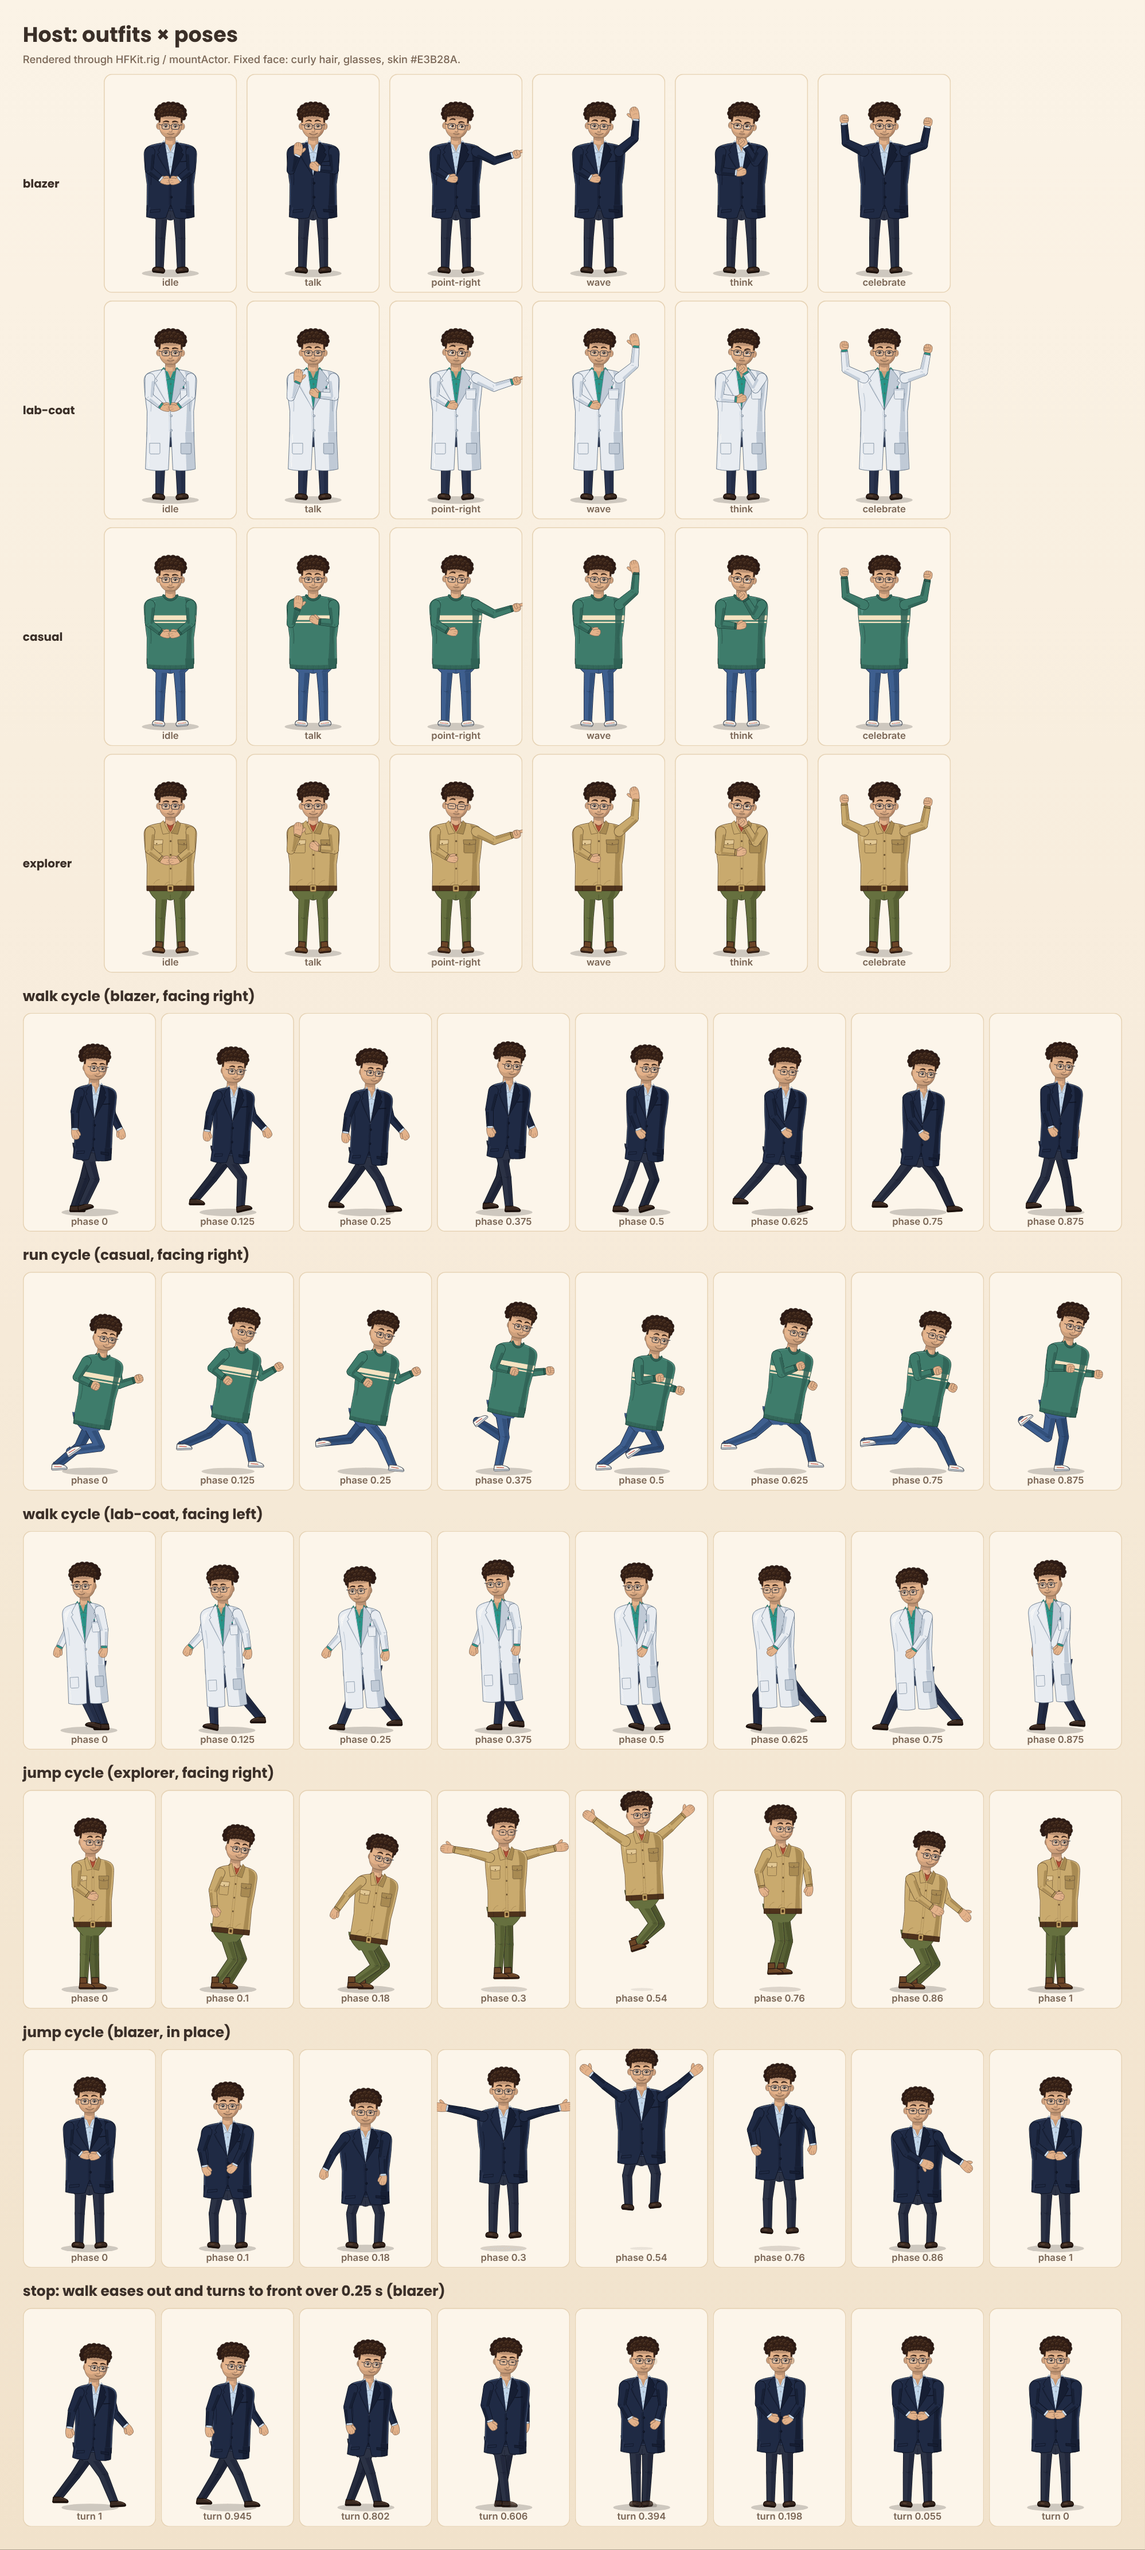
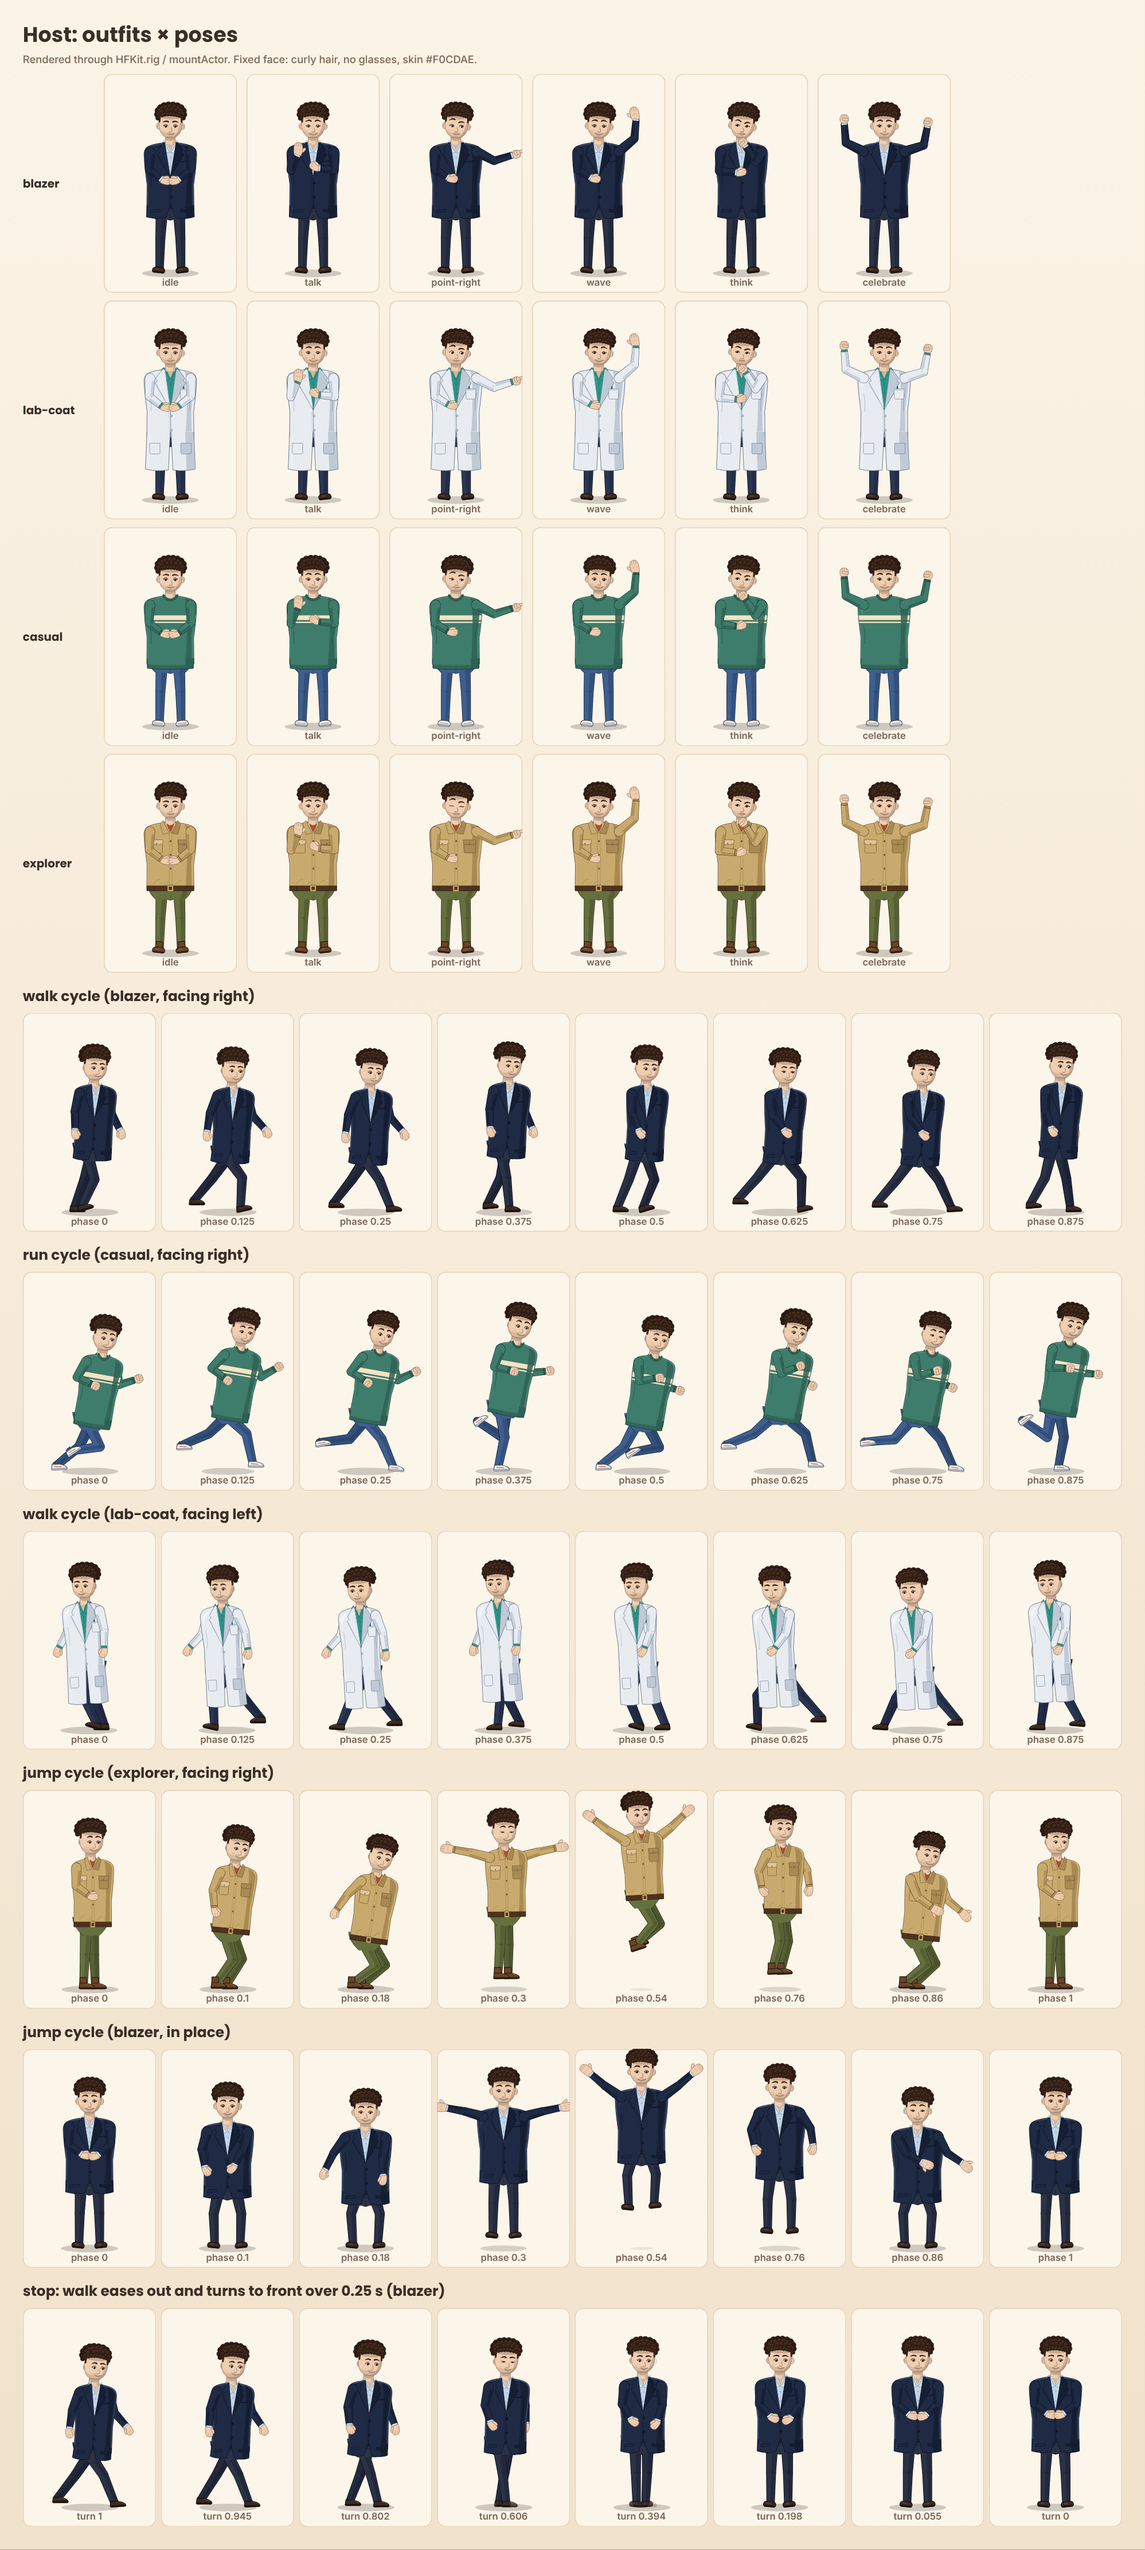
feat: presenter skin #F0CDAE and no glasses (owner update)
Claude-Session: https://claude.ai/code/session_01Tz5zWaGgMzak1Zwa8mwzTk

diff --git a/hf-kit/src/actor/rig.js b/hf-kit/src/actor/rig.js
@@ -1,6 +1,6 @@
 /* hf-kit actor, part 1/3: the full-body rig (HFKit.rig). Pure SVG-string builders, no DOM.
  *
- * The head, face, hair (curly), glasses, palette, mouth, arms and the blazer / lab-coat torso
+ * The head, face, hair (curly), palette, mouth, arms and the blazer / lab-coat torso
  * are the presenter's own parts (src/presenter/*.js); this file adds what a full body needs:
  * legs and shoes, coat tails, two more outfits (casual, explorer), other hair styles for extras,
  * held props, extra poses and the walk / run / jump cycles.
@@ -19,7 +19,7 @@
  *     expression  name in EXPRESSIONS, or a face object (presenter faceAt)
  *     mouth       loudness 0..1;  blink 0..1 (1 = shut);  breath -1..1 (breathing wave)
  *     facing      -1 (screen left), 0 (front), 1 (screen right): stride and gaze direction
- *     character   {face: {hair, glasses, skin, hairColor?}, colors?} (default: the host's face)
+ *     character   {face: {hair, skin, hairColor?}, colors?} (default: the host's face)
  *     frame       frame number: adds the pose's living motion, hair sway and head tilt
  *     track       the scene's mouth array (talk gestures follow the voice)
  *     blend       {pose, expression, k}: blend from that pose/expression to this one (k 0..1)
@@ -111,7 +111,7 @@
   var HAIR = ["curly", "short", "long", "bun", "bald"];
 
   /* The host's face when the state names no character (host.js holds the cast entry). */
-  var HOST_FACE = { hair: "curly", glasses: true, skin: P.LOOK.skinTone };
+  var HOST_FACE = { hair: "curly", skin: P.LOOK.skinTone };
 
   // ---------- palette ----------
 
@@ -130,8 +130,6 @@
       skinTone: face.skin || P.LOOK.skinTone,
       hairColor: face.hairColor || P.LOOK.hairColor,
       eyeColor: face.eyeColor || P.LOOK.eyeColor,
-      glasses: !!face.glasses,
-      glassesColor: P.LOOK.glassesColor,
       outfits: outfits,
     };
     var pal = P.palette(look, o.palette);
@@ -675,7 +673,7 @@
       turnHead(P.parts.head(pal), T),
       // the face features slide toward the turn and narrow a little (three-quarter view)
       h("g", { transform: "translate(" + f2(20 * T) + " 0) scale(" + f2(1 - 0.1 * ta) + " 1)" }, [
-        P.parts.face(pal, face, clamp(st.mouth || 0, 0, 1), clamp(st.blink || 0, 0, 1), gazeX, gazeY, pal.look.glasses),
+        P.parts.face(pal, face, clamp(st.mouth || 0, 0, 1), clamp(st.blink || 0, 0, 1), gazeX, gazeY),
       ]),
       h("g", { transform: "translate(" + f2(3 * T) + " 0)" }, [hairFront(pal, pal.hairStyle, sway)]),
     ]);

diff --git a/templates/src/presenter/parts/Face.tsx b/templates/src/presenter/parts/Face.tsx
@@ -7,11 +7,6 @@ const EYE_Y = 226;
 const EYE_RX = 13.5;
 const EYE_RY = 13.5;
 
-/** Glasses: rounded-rectangle lenses, centred on the eyes, below the brows. */
-const LENS_W = 56;
-const LENS_H = 40;
-const LENS_Y = EYE_Y + 2;
-
 const Eye: React.FC<{
   pal: Palette;
   side: -1 | 1;
@@ -146,32 +141,6 @@ const Mouth: React.FC<{ pal: Palette; face: FaceParams; v: number; uid: string }
   );
 };
 
-/** Thin dark frames with a faint lens glint; the eyes and brows stay clear. */
-const Glasses: React.FC<{ pal: Palette }> = ({ pal }) => {
-  const lens = (cx: number) => ({ x: cx - LENS_W / 2, y: LENS_Y - LENS_H / 2, width: LENS_W, height: LENS_H, rx: 13 });
-  return (
-    <g>
-      {[-1, 1].map((sd) => (
-        <g key={sd}>
-          <rect {...lens(sd * EYE_X)} fill="#DCEBFF" opacity={0.1} />
-          {/* glint */}
-          <path
-            d={`M ${sd * EYE_X - 18} ${LENS_Y + 8} L ${sd * EYE_X - 6} ${LENS_Y - 12}`}
-            stroke="#FFFFFF"
-            strokeWidth={3}
-            strokeLinecap="round"
-            opacity={0.22}
-          />
-          <rect {...lens(sd * EYE_X)} fill="none" stroke={pal.glasses} strokeWidth={3.6} />
-          {/* temple arm towards the ear */}
-          <path d={`M ${sd * (EYE_X + LENS_W / 2)} ${LENS_Y - 10} L ${sd * 84} ${LENS_Y - 14}`} stroke={pal.glasses} strokeWidth={3.6} strokeLinecap="round" />
-        </g>
-      ))}
-      <path d={`M ${-EYE_X + LENS_W / 2} ${LENS_Y - 6} Q 0 ${LENS_Y - 14} ${EYE_X - LENS_W / 2} ${LENS_Y - 6}`} fill="none" stroke={pal.glasses} strokeWidth={3.6} strokeLinecap="round" />
-    </g>
-  );
-};
-
 export const Face: React.FC<{
   pal: Palette;
   face: FaceParams;
@@ -179,9 +148,8 @@ export const Face: React.FC<{
   blink: number;
   gazeX: number;
   gazeY: number;
-  glasses: boolean;
   uid: string;
-}> = ({ pal, face, mouth, blink, gazeX, gazeY, glasses, uid }) => (
+}> = ({ pal, face, mouth, blink, gazeX, gazeY, uid }) => (
   <g>
     {/* blush */}
     <ellipse cx={-54} cy={262} rx={16} ry={9} fill={pal.blush} opacity={face.blush} />
@@ -196,6 +164,5 @@ export const Face: React.FC<{
     <g transform="translate(2 286) scale(1.22) translate(-2 -286)">
       <Mouth pal={pal} face={face} v={mouth} uid={uid} />
     </g>
-    {glasses ? <Glasses pal={pal} /> : null}
   </g>
 );

diff --git a/hf-kit/src/presenter/parts.js b/hf-kit/src/presenter/parts.js
@@ -121,7 +121,6 @@
   // ---------- face ----------
 
   var EYE_X = 35, EYE_Y = 226, EYE_RX = 13.5, EYE_RY = 13.5;
-  var LENS_W = 56, LENS_H = 40, LENS_Y = EYE_Y + 2;
 
   function eyeNode(pal, side, face, blink, gazeX, gazeY) {
     var cx = side * EYE_X;
@@ -219,29 +218,7 @@
     ]);
   }
 
-  /* Thin dark frames with a faint lens glint; the eyes and brows stay clear. */
-  function glassesNode(pal, on) {
-    var lens = function (cx, extra) {
-      return h("rect", Object.assign({ x: cx - LENS_W / 2, y: LENS_Y - LENS_H / 2, width: LENS_W, height: LENS_H, rx: 13 }, extra));
-    };
-    var kids = [];
-    [-1, 1].forEach(function (sd) {
-      kids.push(h("g", {}, [
-        lens(sd * EYE_X, { fill: "#DCEBFF", opacity: 0.1 }),
-        h("path", { d: "M " + (sd * EYE_X - 18) + " " + (LENS_Y + 8) + " L " + (sd * EYE_X - 6) + " " + (LENS_Y - 12), stroke: "#FFFFFF", "stroke-width": 3, "stroke-linecap": "round", opacity: 0.22 }),
-        lens(sd * EYE_X, { fill: "none", stroke: pal.glasses, "stroke-width": 3.6 }),
-        // temple arm towards the ear
-        h("path", { d: "M " + sd * (EYE_X + LENS_W / 2) + " " + (LENS_Y - 10) + " L " + sd * 84 + " " + (LENS_Y - 14), stroke: pal.glasses, "stroke-width": 3.6, "stroke-linecap": "round" }),
-      ]));
-    });
-    kids.push(h("path", {
-      d: "M " + (-EYE_X + LENS_W / 2) + " " + (LENS_Y - 6) + " Q 0 " + (LENS_Y - 14) + " " + (EYE_X - LENS_W / 2) + " " + (LENS_Y - 6),
-      fill: "none", stroke: pal.glasses, "stroke-width": 3.6, "stroke-linecap": "round",
-    }));
-    return h("g", { "data-part": "glasses", display: show(on) }, kids);
-  }
-
-  function faceNode(pal, face, mouth, blink, gazeX, gazeY, glasses) {
+  function faceNode(pal, face, mouth, blink, gazeX, gazeY) {
     return h("g", { "data-part": "face" }, [
       h("ellipse", { cx: -54, cy: 262, rx: 16, ry: 9, fill: pal.blush, opacity: face.blush }),
       h("ellipse", { cx: 56, cy: 262, rx: 15, ry: 9, fill: pal.blush, opacity: face.blush * 0.85 }),
@@ -255,7 +232,6 @@
         h("ellipse", { cx: -2, cy: 258, rx: 5, ry: 3.5, fill: pal.skinLight, opacity: 0.6 }),
       ]),
       mouthNode(pal, face, mouth),
-      glassesNode(pal, glasses),
     ]);
   }
 

diff --git a/hf-kit/src/actor/host.js b/hf-kit/src/actor/host.js
@@ -1,5 +1,5 @@
 /* hf-kit actor, part 2/3: the cast (HFKit.cast). The host is a saved actor with a FIXED face
- * (curly hair, glasses, skin #E3B28A) and voice; only the outfit changes per video (blazer by
+ * (curly hair, no glasses, skin #F0CDAE) and voice; only the outfit changes per video (blazer by
  * default, lab coat for science / health / tech). Extras are generic, deterministic characters
  * that never share the host's face. Pure data, no DOM. */
 (function (root) {
@@ -15,7 +15,7 @@
 
   var host = freeze({
     character: "host",
-    face: { hair: "curly", glasses: true, skin: "#E3B28A" },
+    face: { hair: "curly", skin: "#F0CDAE" },
     voice: "am_adam",
     defaultOutfit: "blazer",
   });
@@ -23,7 +23,7 @@
   /* Extras' looks. The host's skin tone is not in this list, so no extra can wear his face. */
   var SKINS = ["#F6D9C5", "#EFC6A4", "#D7A27A", "#B57A52", "#94603E", "#70452B", "#F3CDB0", "#C58D62"];
   var HAIR_COLORS = ["#1E1712", "#4A2C1A", "#7A4A28", "#B9853F", "#D8B26A", "#8E3B22", "#9A9A9A", "#2D2A26"];
-  /* No curls: the curly crop (with glasses) is the host's signature. */
+  /* No curls: the curly crop is the host's signature. */
   var HAIRS = ["short", "long", "bun", "bald", "short", "long", "bun"];
   var OUTFITS = ["casual", "explorer", "lab-coat", "blazer", "casual"];
   var SWEATERS = [
@@ -42,7 +42,6 @@
     var pick = function (list) { return list[Math.floor(rnd() * list.length)]; };
     var face = {
       hair: HAIRS[(n * 3 + Math.floor(rnd() * 2)) % HAIRS.length],
-      glasses: rnd() < 0.3,
       skin: SKINS[(n * 5 + Math.floor(rnd() * 3)) % SKINS.length],
       hairColor: pick(HAIR_COLORS),
     };

diff --git a/hf-kit/test/presenter.test.js b/hf-kit/test/presenter.test.js
@@ -13,7 +13,7 @@ const POSES = ["idle", "talk", "point-left", "point-right", "think", "surprised"
 const EXPRESSIONS = ["neutral", "happy", "curious", "surprised", "thinking"];
 const OUTFITS = ["blazer", "labcoat"];
 const PARTS = ["torso", "collar", "neck", "head", "face", "hair-back", "hair-front", "eye-left", "eye-right",
-  "brow-left", "brow-right", "nose", "mouth", "glasses", "arm-left", "arm-right"];
+  "brow-left", "brow-right", "nose", "mouth", "arm-left", "arm-right"];
 
 test("kit exposes the presenter and mountPresenter", () => {
   assert.equal(globalThis.HFKit.presenter, P);
@@ -30,17 +30,17 @@ test("same names as the Remotion schema", () => {
 });
 
 test("same look values as templates/src/presenter/look.ts", () => {
-  assert.equal(P.LOOK.skinTone, "#E3B28A");
+  assert.equal(P.LOOK.skinTone, "#F0CDAE");
   assert.equal(P.LOOK.hairColor, "#3B2416");
   assert.equal(P.LOOK.eyeColor, "#3A2418");
-  assert.equal(P.LOOK.glassesColor, "#1B2130");
+  assert.equal("glasses" in P.LOOK, false);
   assert.equal(P.LOOK.outfits.blazer.jacket, "#1F2A44");
   assert.equal(P.LOOK.outfits.blazer.shirt, "#CFE3F5");
   assert.equal(P.LOOK.outfits.labcoat.jacket, "#E8ECF1");
   assert.equal(P.LOOK.outfits.labcoat.shirt, "#2A9D8F");
   const pal = P.palette(P.LOOK, "blazer");
-  assert.equal(pal.skin, "#E3B28A");
-  assert.equal(pal.skinShade, P.mix("#E3B28A", "#1A0E14", 0.2));
+  assert.equal(pal.skin, "#F0CDAE");
+  assert.equal(pal.skinShade, P.mix("#F0CDAE", "#1A0E14", 0.2));
   assert.equal(P.mix("#000000", "#FFFFFF", 0.5), "#808080");
 });
 

diff --git a/hf-kit/test/actor.test.js b/hf-kit/test/actor.test.js
@@ -118,9 +118,23 @@ test("feet stand at y = 1300 in body units", () => {
 
 test("the host's face constants are exact", () => {
   assert.deepEqual(K.cast.host, {
-    character: "host", face: { hair: "curly", glasses: true, skin: "#E3B28A" }, voice: "am_adam", defaultOutfit: "blazer",
+    character: "host", face: { hair: "curly", skin: "#F0CDAE" }, voice: "am_adam", defaultOutfit: "blazer",
   });
   assert.equal(K.cast.host.face.skin, P.LOOK.skinTone);
+});
+
+test("the host's SVG has no glasses and uses skin #F0CDAE", () => {
+  assert.equal("glasses" in K.cast.host.face, false);
+  for (const outfit of ["blazer", "lab-coat"])
+    for (const st of [base({ outfit }), base({ outfit, cycle: "walk", phase: 0.25, facing: 1 }), base({ outfit, cycle: "run", phase: 0.5, facing: 1 })]) {
+      const svg = K.rig.svg(st, "g");
+      assert.ok(!/glass|lens|temple/i.test(svg), outfit + ": glasses element in the SVG");
+      assert.ok(svg.toUpperCase().includes("#F0CDAE"), outfit + ": skin #F0CDAE");
+      assert.ok(!svg.toUpperCase().includes("#E3B28A"), outfit + ": old skin");
+    }
+  const side = P.figureSVG({ pose: P.POSES.idle, face: P.faceAt("neutral", "neutral", 1), mouth: 0, blink: 0, t: 0,
+    side: "center", width: 434, height: 288, still: true });
+  assert.ok(!/glass/i.test(side) && side.toUpperCase().includes("#F0CDAE"));
 });
 
 test("cast.extra(n) is stable, varied and never the host's face", () => {

diff --git a/tools/dashboard/static/sprites.js b/tools/dashboard/static/sprites.js
@@ -915,15 +915,14 @@ export function starPoster(b, x, y, outfit = "blazer") {
   const hx = cx - 5, hy = iy + ih - 20;
   const face = [
     "..hhHhHh..", ".hHhHhhhh.", "hhHhhHhhhh", "hhkKKKkkhh", "hkKkkkkkzh",
-    "hkGGkkGGzh", "hGKeKKeKGh", ".kKkkkkzz.", ".kkkmmkzz.", "..kkkkzz..", "...zzzz...",
+    "hkkkkkkkzh", "hkKeKKeKkh", ".kKkkkkzz.", ".kkkmmkzz.", "..kkkkzz..", "...zzzz...",
   ];
-  const map = { h: P.hair[2], H: P.hair[3], k: P.skin[2], K: P.skin[3], z: P.skin[1], G: "#3a4258", e: "#1a1020", m: "#a85a4a" };
+  const map = { h: P.hair[2], H: P.hair[3], k: P.skin[2], K: P.skin[3], z: P.skin[1], e: "#1a1020", m: "#a85a4a" };
   face.forEach((row, j) => [...row].forEach((ch, i) => { if (map[ch]) b.set(hx + i, hy + j, map[ch]); }));
   // curls: a few lit and shaded hair pixels around the crown
   for (const [i, j, c] of [[1, -1, 2], [3, -1, 3], [5, -1, 2], [7, -1, 2], [0, 1, 3], [9, 2, 1], [8, -1, 1], [-1, 3, 2], [10, 4, 1]]) {
     b.set(hx + i, hy + j, P.hair[c]);
   }
-  b.set(hx + 2, hy + 6, "#f4e6d8"); // glint on the lens
   selout(b, hx - 2, hy - 2, 14, 15, P.hair[0]);
   // plate with STAR + stars
   const py = y + H - 7;

diff --git a/templates/src/presenter/look.ts b/templates/src/presenter/look.ts
@@ -6,15 +6,12 @@ import type { PresenterOutfit } from "../schema";
  * No orange in his clothes: orange stays reserved for on-screen highlights.
  */
 export const LOOK = {
-  /** Light warm tan skin (owner asked for a lighter tone). */
-  skinTone: "#E3B28A",
+  /** Light warm peach skin (#F0CDAE, owner update 2026-11-24). */
+  skinTone: "#F0CDAE",
   /** Dark brown curly hair. */
   hairColor: "#3B2416",
   /** Iris colour. */
   eyeColor: "#3A2418",
-  /** Thin dark frames. */
-  glasses: true,
-  glassesColor: "#1B2130",
   outfits: {
     /** Navy blazer over a light-blue collared shirt, no tie: the default "documentary host". */
     blazer: {
@@ -102,7 +99,6 @@ export const palette = (look: Look, outfit: PresenterOutfit = "blazer") => {
     tongue: "#D9746A",
     blush: "#E2725B",
     pen: "#2B3A55",
-    glasses: look.glassesColor,
   };
 };
 

diff --git a/hf-kit/src/presenter/look.js b/hf-kit/src/presenter/look.js
@@ -12,11 +12,9 @@
   /* The presenter's look. Colours are hex. No orange in his clothes: orange stays reserved for
    * on-screen highlights. Same values as the Remotion look.ts. */
   P.LOOK = {
-    skinTone: "#E3B28A", // light warm tan
+    skinTone: "#F0CDAE", // light warm peach
     hairColor: "#3B2416", // dark brown curly hair
     eyeColor: "#3A2418",
-    glasses: true, // thin dark frames
-    glassesColor: "#1B2130",
     outfits: {
       // Navy blazer over a light-blue collared shirt, no tie: the default "documentary host".
       blazer: {
@@ -81,7 +79,6 @@
     pal.tongue = "#D9746A";
     pal.blush = "#E2725B";
     pal.pen = "#2B3A55";
-    pal.glasses = look.glassesColor;
     return pal;
   }
 

diff --git a/templates/src/presenter/Presenter.tsx b/templates/src/presenter/Presenter.tsx
@@ -149,7 +149,7 @@ export const PresenterFigure: React.FC<FigureProps> = ({
     <g transform={`translate(0 ${lift}) rotate(${tilt} 0 ${RIG.headPivotY})`}>
       <HairBack pal={pal} sway={swayFn} />
       <Head pal={pal} uid={uid} />
-      <Face pal={pal} face={face} mouth={mouth} blink={blink} gazeX={pose.gazeX} gazeY={pose.gazeY} glasses={look.glasses} uid={uid} />
+      <Face pal={pal} face={face} mouth={mouth} blink={blink} gazeX={pose.gazeX} gazeY={pose.gazeY} uid={uid} />
       <HairFront pal={pal} sway={swayFn} />
     </g>
   );

diff --git a/tools/dashboard/static/palette.js b/tools/dashboard/static/palette.js
@@ -172,9 +172,8 @@ export const CREW = {
 
 /** The presenter on the STAR poster (same look as templates/src/presenter/look.ts). */
 export const PRESENTER = {
-  skin: ["#8a4f3a", "#c48662", "#e3b28a", "#f4d2b0"],
+  skin: ["#9a5f48", "#d4a07c", "#f0cdae", "#f9e0c9"],
   hair: ["#160c08", "#2a1810", "#3b2416", "#5a3a24"],
-  glasses: "#1b2130",
   outfits: {
     blazer: { jacket: ["#0a0f1d", "#161e33", "#1f2a44", "#2e3d60"], rim: "#8fa6d6",
       shirt: ["#5d7894", "#a8c3de", "#cfe3f5"] },

diff --git a/hf-kit/src/presenter/figure.js b/hf-kit/src/presenter/figure.js
@@ -102,7 +102,7 @@
     var head = h("g", { transform: "translate(0 " + lift + ") rotate(" + tilt + " 0 " + RIG.headPivotY + ")" }, [
       P.parts.hairBack(pal, sway),
       P.parts.head(pal),
-      P.parts.face(pal, props.face, props.mouth || 0, props.blink || 0, pose.gazeX, pose.gazeY, look.glasses),
+      P.parts.face(pal, props.face, props.mouth || 0, props.blink || 0, pose.gazeX, pose.gazeY),
       P.parts.hairFront(pal, sway),
     ]);
 
